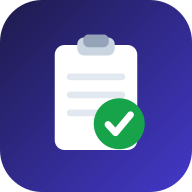
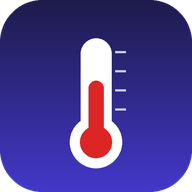
Icone distincte (thermometre indigo) pour HACCP Pro + bump cache SW v7
Les deux apps partageaient la meme icone. HACCP Pro recoit une icone
thermometre sur fond indigo pour la distinguer de l'app d'audit.

diff --git a/sw.js b/sw.js
@@ -4,7 +4,7 @@
  * cache quand on est hors-ligne (utile sur le terrain sans réseau).
  * Les CDN externes (Supabase, Chart.js, polices…) ne sont pas interceptés.
  */
-const CACHE = 'haccp-pro-v6';
+const CACHE = 'haccp-pro-v7';
 const CORE = [
   './',
   './index.html',
